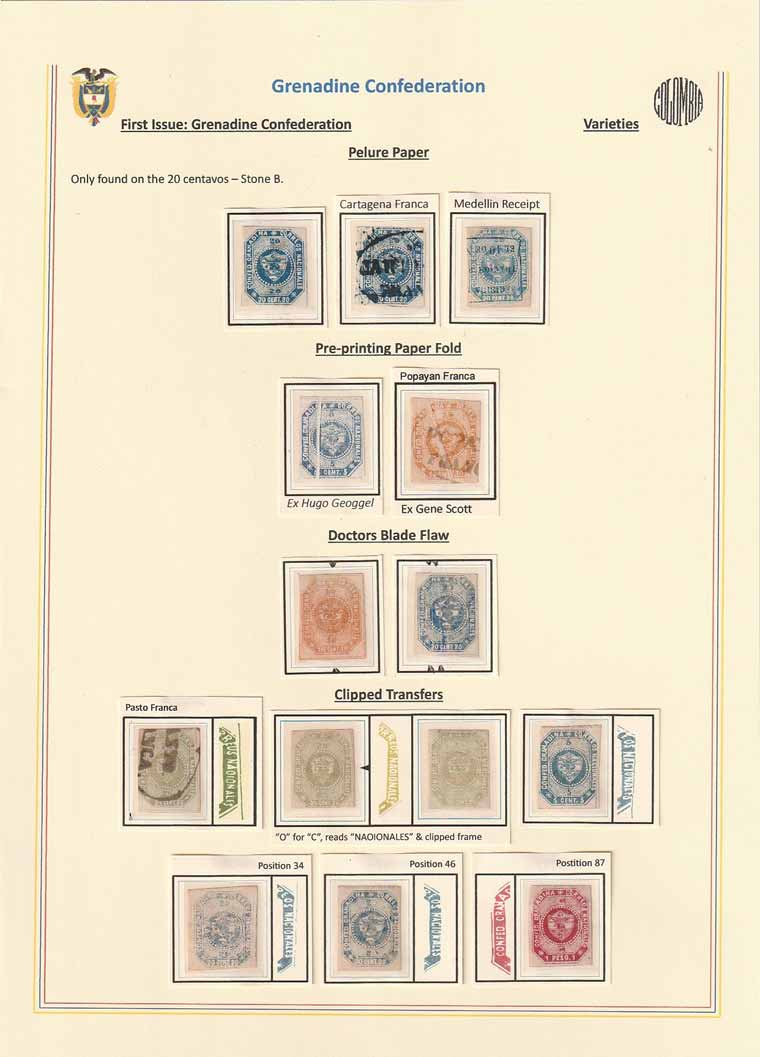
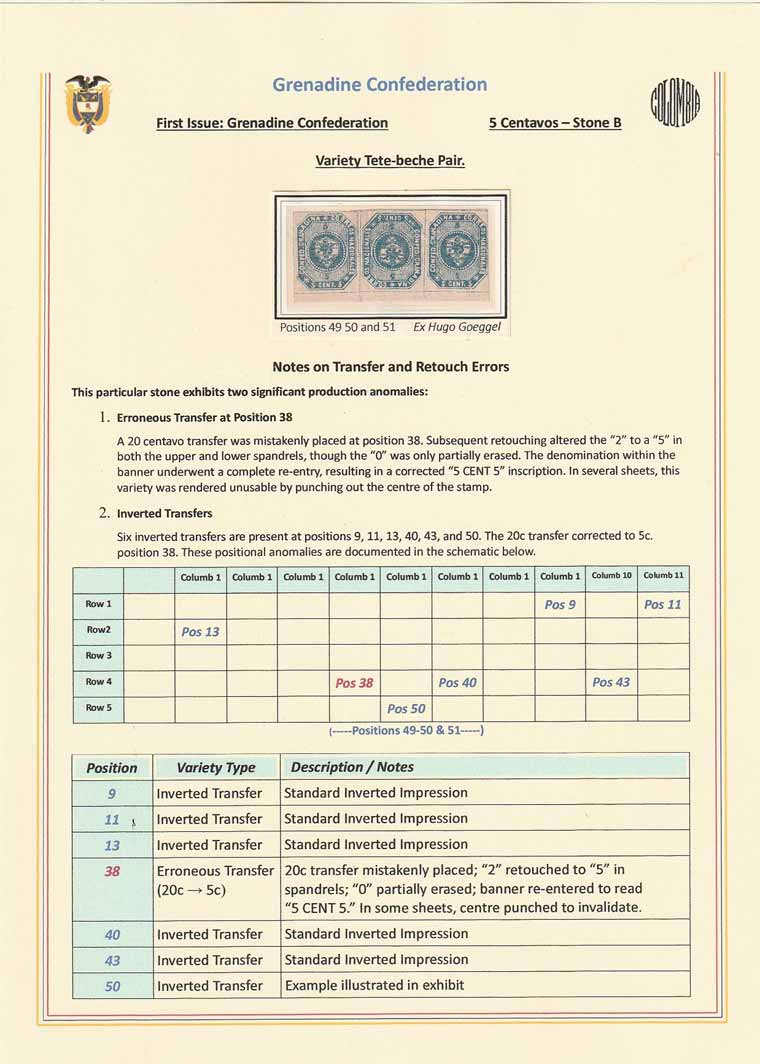
There was no page 15, there is now

diff --git a/exhibits-colombia.md b/exhibits-colombia.md
@@ -65,7 +65,3 @@
 ## Page 16
 
 ![Colombia Exhibit](images/exhibits/colombia/16.jpg)
-
-## Page 17
-
-![Colombia Exhibit](images/exhibits/colombia/17.jpg)
